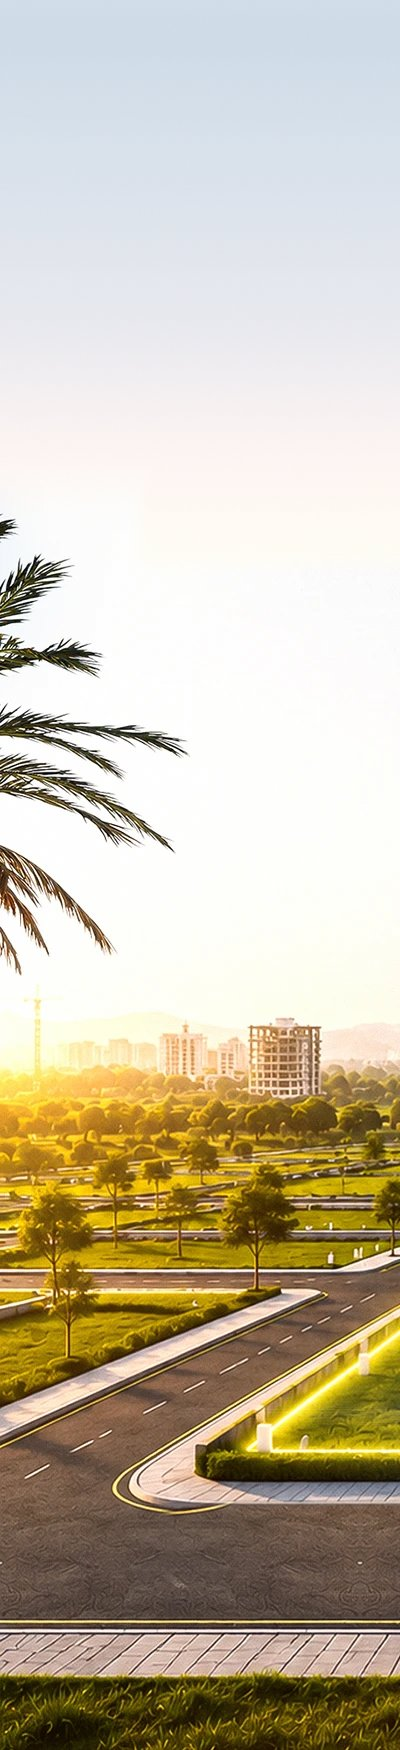
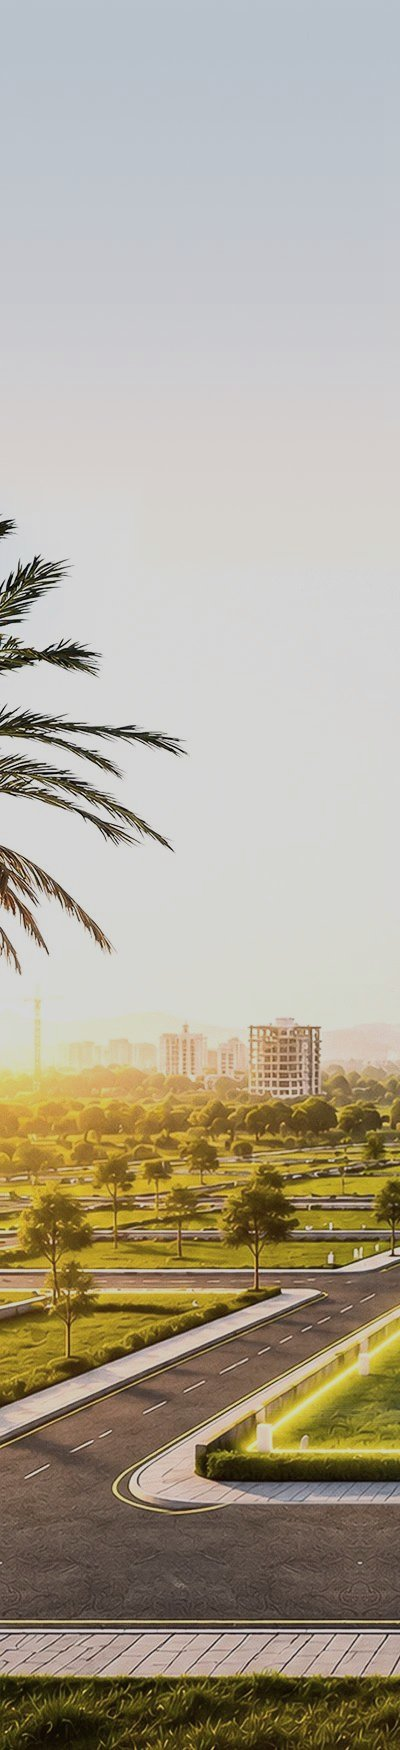
Apply form: soften intro photo (lower highlights/saturation, cool overlay)
Claude-Session: https://claude.ai/code/session_01VAA1axnAkiEbT9HQhNrFHz

diff --git a/careers/job.html b/careers/job.html
@@ -1162,7 +1162,7 @@ html,body{overflow-x:clip}
 
 /* ===== Apply form — refined (brand navy / red) ===== */
 #rx .apply-card{position:relative;overflow:hidden;display:grid;grid-template-columns:340px minmax(0,1fr);gap:0;padding:0!important;border:1px solid #E6EAF3!important;border-radius:28px!important;background:#fff!important;box-shadow:0 40px 80px -48px rgba(10,26,85,.35)!important}
-#rx .af-head{grid-column:1;grid-row:1/span 2;align-self:stretch;display:block;padding:44px 36px;border:0;color:#0A1A55;background:linear-gradient(180deg,rgba(255,255,255,.6) 0%,rgba(255,255,255,0) 40%),#EAF0F6 url(assets/img/job-pin.jpg) center bottom/cover no-repeat}
+#rx .af-head{grid-column:1;grid-row:1/span 2;align-self:stretch;display:block;padding:44px 36px;border:0;color:#0A1A55;background:linear-gradient(180deg,rgba(244,246,250,.7) 0%,rgba(244,246,250,.15) 38%,rgba(10,26,85,.12) 70%,rgba(10,26,85,.28) 100%),#EAF0F6 url(assets/img/job-pin.jpg?v=2) center bottom/cover no-repeat}
 #rx .af-head > div{position:sticky;top:96px}
 #rx .af-head{align-self:stretch!important}
 #rx .af-tag{background:#fff!important;color:#0A1A55!important;border:1px solid #E1E4EA;padding:5px 12px;border-radius:999px;font-size:12px}
